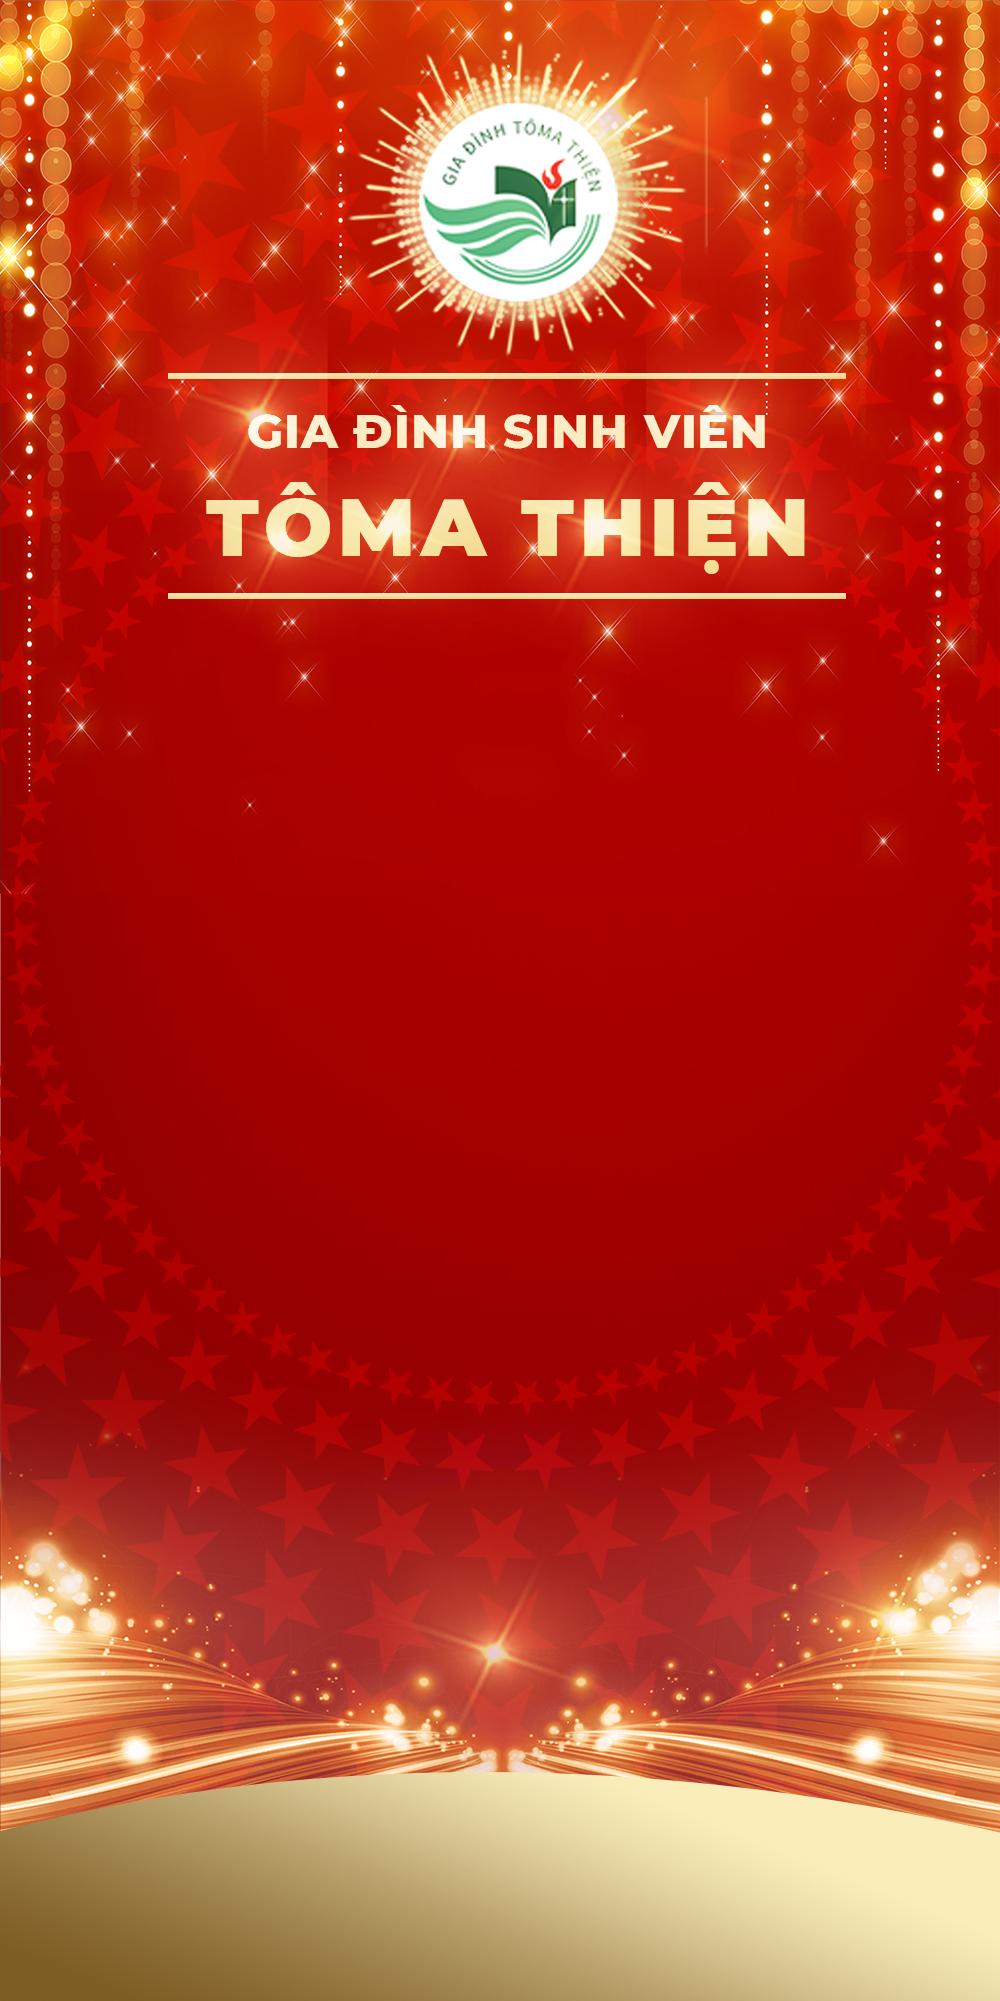
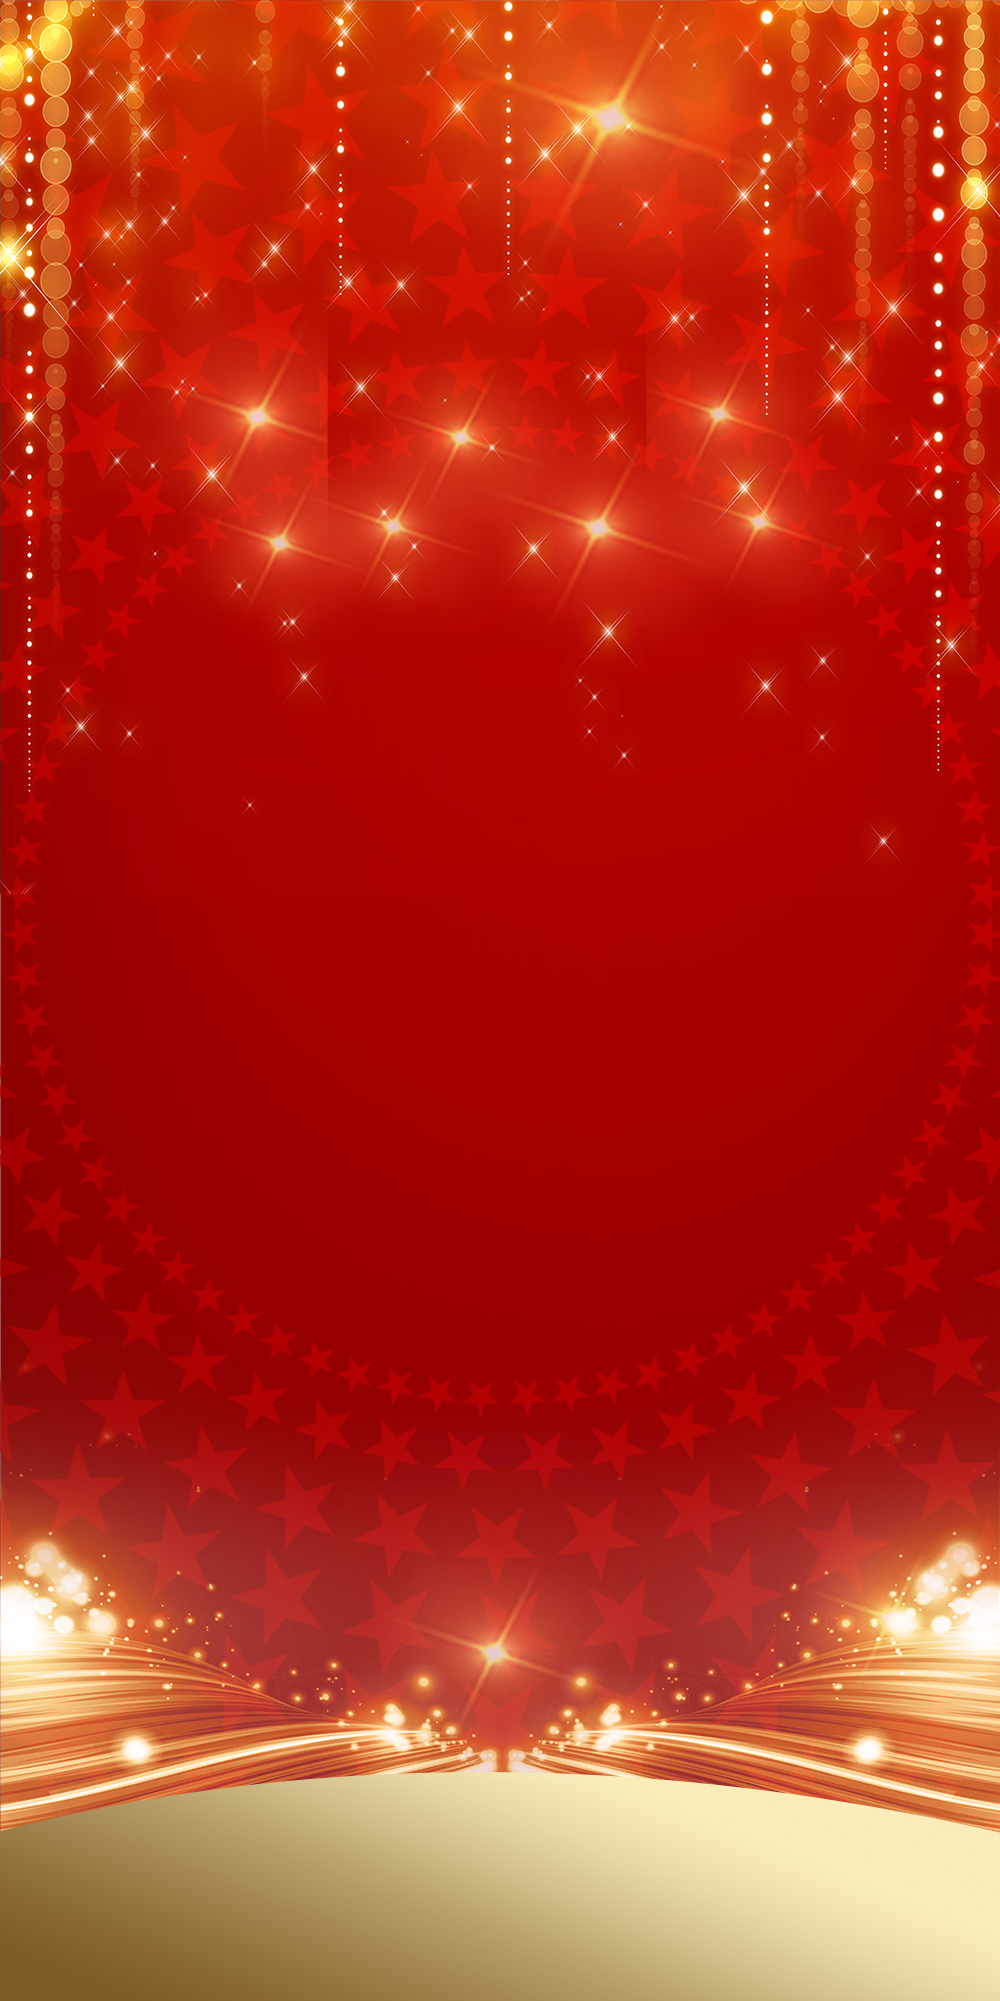
update

Changed region(s): [[0.217, 0.031, 0.806, 0.3098]]

diff --git a/style.css b/style.css
@@ -4,13 +4,11 @@ html {
 }
 body{
     min-height: 100vh;
-    /* max-width: 100%; */
     background-image: url("./img/BG-PC.png");
-    /* background-size: 100% 100vh; */
     background-repeat: no-repeat;
     display: flex;
     flex-direction:column;
-    justify-content: center;
+    justify-content: flex-start;
     align-items: center;
     overflow-y:hidden;
 }
@@ -36,18 +34,36 @@ body{
     height: 80%;
 }
 
+.logo {
+    width: 60%;
+    height: 20vh;
+    display: flex;
+    justify-content: flex-start;
+    flex-direction: row;
+    align-items: flex-start;
+    margin-block: 30px;
+}
+
+.logo-img {
+    width: 25%
+}
+
+.logo-text {
+    width: 75%;
+}
+
+
+
 /* 740px 1024px */
 @media only screen and (max-width:1023px) {
     body {
         background-image: url("./img/BG-MB.png");
     }
-    .logo {
-        margin-top: 20vh;
-    }
-    .logo-text {
-        font-size: 16px;
-    }
     .btn {
         width: 200px;
+    }
+    .logo {
+        width: 80%;
+        margin-bottom: 50px;
     }
 }

diff --git a/index.html b/index.html
@@ -9,7 +9,10 @@
     <title>Lộc Thánh 2022 - TÔMA THIỆN</title>
 </head>
 <body>
-    
+    <div class="logo">
+        <img class="logo-img" src="./img/LogoTMT.png" alt="">
+        <img class="logo-text" src="./img/TextTMT.png" alt="">
+    </div>
     <div class="container">
         <button onclick="random()" class="btn">HÁI LỘC</button>
     </div>
